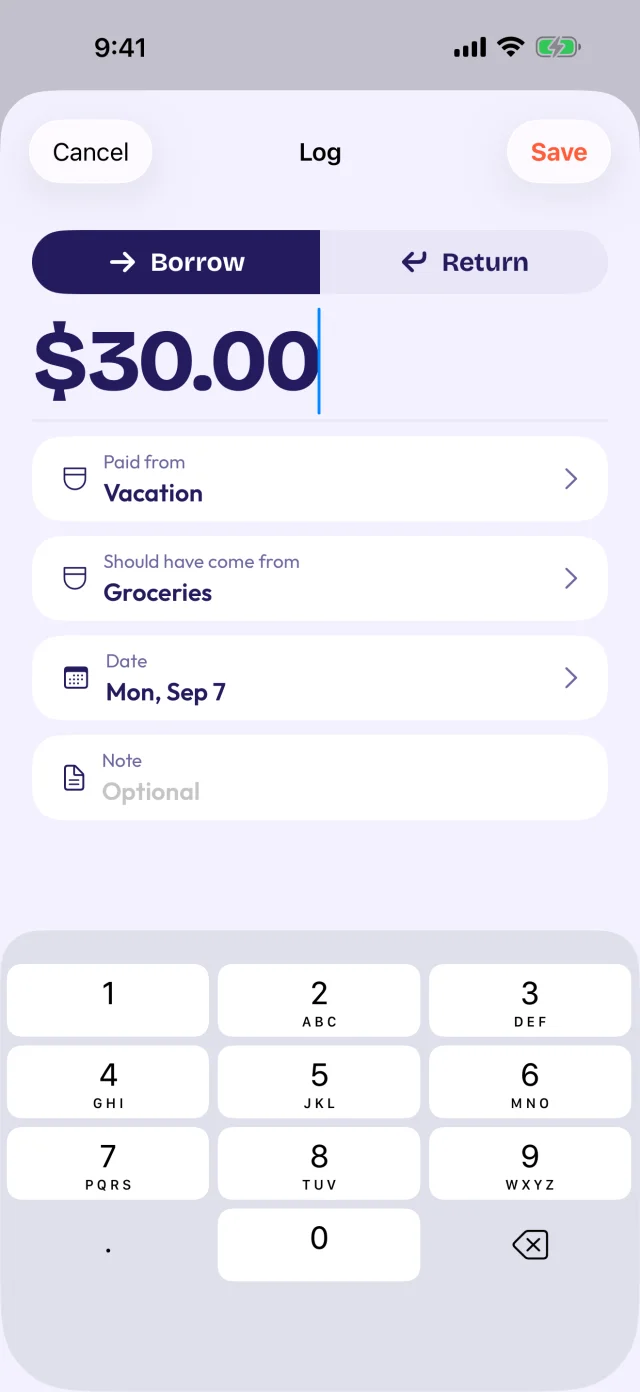
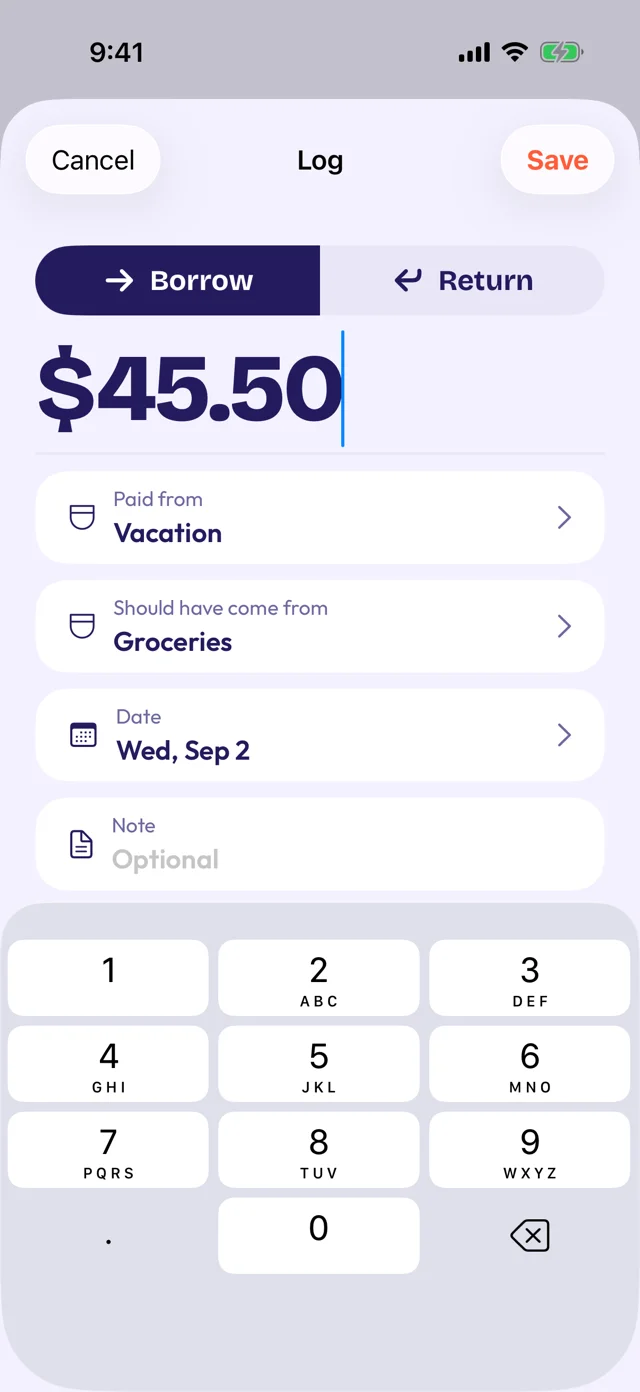
fix(landing): the en-US Log capture reads $45.50 on Wed, Sep 2 like beat 1, and link previews ask for the new image [repocket-site-t6j]
Beat 1 says "$45.50 at the till" under "Wednesday, 09:41", but the en-US Log screen showed $30.00 dated Mon, Sep 7. assets/screens/en-US/log.webp is retaken: the Log sheet in Borrow mode at $45.50, paid from Vacation, should have come from Groceries, dated Wed, Sep 2, number pad open. Its English alt text says so, keeping "covering for".

Capture method: app repo 2aa9557 in a throwaway worktree (nothing committed there), the testMarketingLogScreenshot flow from LocalizationScreenshotUITests under the RepocketLocalizationScreenshots scheme, with the frozen instant moved to 2026-09-02T09:41Z and the amount set to 4550, run with TEST_RUNNER_MARKETING_LOCALE=en_US. Simulator: the bead's own scripts/sim-for-session clone of iPhone 17 Pro on iOS 26.5 (no Pro Max exists on this Mac), en_US, light appearance, status bar overridden to 9:41. Exported at 1206x2622, resized to 640x1392, cwebp -q 85.

The Pro capture draws the app about 9 to 10 percent larger than the Pro Max captures once both fill the 640 px screen (cards 92 px tall against 85, the amount 87 px against 79, card margin 36 px against 32). The compare renders sit with the beat 1 renders.

Every page's og:image and twitter:image URL now ends in ?v=2, so X, Slack, LinkedIn and Facebook fetch the settle-tagline preview from repocket-site-1fe instead of their cached copy. The English Siri example reads $120.00, matching the alt texts and the $45.50 beside it.
[…]

diff --git a/index.html b/index.html
@@ -7,7 +7,7 @@
 <meta name="description" content="Spend from any pocket. Repocket keeps the tally and shows what to move back when it's time to settle. Free with 3 pockets, $4.99 once for the rest.">
 <meta property="og:title" content="Repocket · An app that helps you settle">
 <meta property="og:description" content="Spend from any pocket. Repocket keeps the tally and shows what to move back when it's time to settle. Free with 3 pockets, $4.99 once for the rest.">
-<meta property="og:image" content="https://getrepocket.com/assets/og.png">
+<meta property="og:image" content="https://getrepocket.com/assets/og.png?v=2">
 <meta property="og:image:width" content="1200">
 <meta property="og:image:height" content="630">
 <meta property="og:url" content="https://getrepocket.com/">
@@ -16,7 +16,7 @@
 <meta name="twitter:card" content="summary_large_image">
 <meta name="twitter:title" content="Repocket · An app that helps you settle">
 <meta name="twitter:description" content="Spend from any pocket. Repocket keeps the tally and shows what to move back when it's time to settle. Free with 3 pockets, $4.99 once for the rest.">
-<meta name="twitter:image" content="https://getrepocket.com/assets/og.png">
+<meta name="twitter:image" content="https://getrepocket.com/assets/og.png?v=2">
 <link rel="icon" href="assets/mark.svg">
 <style>
 @font-face{font-family:"Bricolage Grotesque";font-style:normal;font-weight:700;font-display:swap;src:url("assets/fonts/BricolageGrotesque-700.woff2") format("woff2")}
@@ -114,7 +114,7 @@ footer{padding:40px 0 60px;border-top:1px solid rgba(36,27,94,.1);font-size:14px
   </div>
   <div class="sticky"><div class="phone" id="story-phone" data-scr="log">
    <div class="sb" aria-hidden="true"><i></i></div>
-   <img class="scr s-log" data-l="en" src="assets/screens/en-US/log.webp" width="640" height="1392" decoding="async" loading="lazy" alt="Repocket's Log sheet in Borrow mode: $30.00 paid from Vacation, covering for Groceries, dated Mon, Sep 7, with the number pad open."><img class="scr s-log" data-l="de" src="assets/screens/en-GB/log.webp" width="640" height="1392" decoding="async" loading="lazy" alt="Das Eintragen-Blatt in Repocket im Modus Leihe: 45,50 €, bezahlt von Vacation, hätte kommen sollen von Groceries, am Mi. 2. Sep., mit offenem Ziffernblock.">
+   <img class="scr s-log" data-l="en" src="assets/screens/en-US/log.webp" width="640" height="1392" decoding="async" loading="lazy" alt="Repocket's Log sheet in Borrow mode: $45.50 paid from Vacation, covering for Groceries, dated Wed, Sep 2, with the number pad open."><img class="scr s-log" data-l="de" src="assets/screens/en-GB/log.webp" width="640" height="1392" decoding="async" loading="lazy" alt="Das Eintragen-Blatt in Repocket im Modus Leihe: 45,50 €, bezahlt von Vacation, hätte kommen sollen von Groceries, am Mi. 2. Sep., mit offenem Ziffernblock.">
    <img class="scr s-home" data-l="en" src="assets/screens/en-US/home.webp" width="640" height="1392" decoding="async" loading="lazy" alt="Repocket's Owed screen: $165.50 across 2 open debts. Groceries owes Vacation $45.50 since Wed 2 Sep, and Kids owes Home $120.00 since Fri 28 Aug."><img class="scr s-home" data-l="de" src="assets/screens/en-GB/home.webp" width="640" height="1392" decoding="async" loading="lazy" alt="Der Bildschirm Geschuldet in Repocket: 165,50 € in 2 offenen Schulden. Groceries schuldet Vacation 45,50 € seit Mi. 2. Sep., und Kids schuldet Home 120,00 € seit Fr. 28. Aug.">
    <div class="scr s-widget"><div class="wgt"><img data-l="en" src="assets/screens/en-US/widget-large.webp" width="560" height="587" decoding="async" loading="lazy" alt="Repocket's Owed widget: $165.50 to return, Kids to Home $120.00 for 10 days and Groceries to Vacation $45.50 for 5 days, each with a Settled checkmark button."><img data-l="de" src="assets/screens/en-GB/widget-large.webp" width="560" height="587" decoding="async" loading="lazy" alt="Das Repocket-Widget Geschuldet: 165,50 € zurückzulegen, Kids an Home 120,00 € seit 10 Tagen und Groceries an Vacation 45,50 € seit 5 Tagen, jeweils mit einem Häkchen zum Ausgleichen."></div></div>
    <img class="scr s-square" data-l="en" src="assets/screens/en-US/all-square.webp" width="640" height="1392" decoding="async" loading="lazy" alt="Repocket's Owed screen: Everything is square."><img class="scr s-square" data-l="de" src="assets/screens/en-GB/all-square.webp" width="640" height="1392" decoding="async" loading="lazy" alt="Der Bildschirm Geschuldet in Repocket: Alles ausgeglichen.">
@@ -131,7 +131,7 @@ footer{padding:40px 0 60px;border-top:1px solid rgba(36,27,94,.1);font-size:14px
  </div>
  <div class="os">
   <div class="reveal"><h3 style="font-size:clamp(28px,3vw,40px)"><span data-l="en">Lives on the home screen, not in a tab you forget.</span><span data-l="de">Lebt auf dem Home-Bildschirm, nicht in einem vergessenen Tab.</span></h3><p class="lead" style="margin-top:16px"><span data-l="en">Widgets in three sizes with a Settled button that works right on the Home Screen. Ask Siri and get an answer in one sentence.</span><span data-l="de">Widgets in drei Größen mit einem Erledigt-Knopf, der direkt auf dem Home-Bildschirm funktioniert. Frag Siri und bekomm die Antwort in einem Satz.</span></p></div>
-  <div class="siri reveal"><i></i><div><span data-l="en">“What do I owe in Repocket?”</span><span data-l="de">„Was schulde ich in Repocket?“</span><small><span data-l="en">“Groceries owes Vacation $45.50 and Kids owes Home $120. $165.50 to return.”</span><span data-l="de">„Lebensmittel schuldet Urlaub 45,50 € und Kinder schuldet Zuhause 120 €. 165,50 € zurückzulegen.“</span></small></div></div>
+  <div class="siri reveal"><i></i><div><span data-l="en">“What do I owe in Repocket?”</span><span data-l="de">„Was schulde ich in Repocket?“</span><small><span data-l="en">“Groceries owes Vacation $45.50 and Kids owes Home $120.00. $165.50 to return.”</span><span data-l="de">„Lebensmittel schuldet Urlaub 45,50 € und Kinder schuldet Zuhause 120 €. 165,50 € zurückzulegen.“</span></small></div></div>
  </div>
 </div></section>
 

diff --git a/press.html b/press.html
@@ -1,4 +1,4 @@
-<!doctype html><html lang="en"><head><meta charset="utf-8"><meta name="viewport" content="width=device-width,initial-scale=1"><title>Press kit · Repocket</title><meta name="description" content="An app that helps you settle. Spend from whichever pocket is handy. Repocket keeps the tally, and on payday it shows you exactly what to move back."><meta property="og:title" content="Press kit · Repocket"><meta property="og:description" content="An app that helps you settle. Spend from whichever pocket is handy. Repocket keeps the tally, and on payday it shows you exactly what to move back."><meta property="og:image" content="https://getrepocket.com/assets/og.png"><meta property="og:image:width" content="1200"><meta property="og:image:height" content="630"><meta property="og:url" content="https://getrepocket.com/press.html"><meta property="og:type" content="website"><meta property="og:site_name" content="Repocket"><meta name="twitter:card" content="summary_large_image"><meta name="twitter:title" content="Press kit · Repocket"><meta name="twitter:description" content="An app that helps you settle. Spend from whichever pocket is handy. Repocket keeps the tally, and on payday it shows you exactly what to move back."><meta name="twitter:image" content="https://getrepocket.com/assets/og.png"><link rel="icon" href="assets/mark.svg">
+<!doctype html><html lang="en"><head><meta charset="utf-8"><meta name="viewport" content="width=device-width,initial-scale=1"><title>Press kit · Repocket</title><meta name="description" content="An app that helps you settle. Spend from whichever pocket is handy. Repocket keeps the tally, and on payday it shows you exactly what to move back."><meta property="og:title" content="Press kit · Repocket"><meta property="og:description" content="An app that helps you settle. Spend from whichever pocket is handy. Repocket keeps the tally, and on payday it shows you exactly what to move back."><meta property="og:image" content="https://getrepocket.com/assets/og.png?v=2"><meta property="og:image:width" content="1200"><meta property="og:image:height" content="630"><meta property="og:url" content="https://getrepocket.com/press.html"><meta property="og:type" content="website"><meta property="og:site_name" content="Repocket"><meta name="twitter:card" content="summary_large_image"><meta name="twitter:title" content="Press kit · Repocket"><meta name="twitter:description" content="An app that helps you settle. Spend from whichever pocket is handy. Repocket keeps the tally, and on payday it shows you exactly what to move back."><meta name="twitter:image" content="https://getrepocket.com/assets/og.png?v=2"><link rel="icon" href="assets/mark.svg">
 <style>@font-face{font-family:"Bricolage Grotesque";font-style:normal;font-weight:700;font-display:swap;src:url("assets/fonts/BricolageGrotesque-700.woff2") format("woff2")}
 @font-face{font-family:"Bricolage Grotesque";font-style:normal;font-weight:800;font-display:swap;src:url("assets/fonts/BricolageGrotesque-800.woff2") format("woff2")}
 @font-face{font-family:"Outfit";font-style:normal;font-weight:400;font-display:swap;src:url("assets/fonts/Outfit-400.woff2") format("woff2")}

diff --git a/privacy.html b/privacy.html
@@ -1,4 +1,4 @@
-<!doctype html><html lang="en" data-lang="en"><head><meta charset="utf-8"><meta name="viewport" content="width=device-width,initial-scale=1"><title>Privacy policy · Repocket</title><meta property="og:title" content="Privacy · Repocket"><meta property="og:description" content="How Repocket handles your data: entries stay on your iPhone and in your private iCloud. Anonymous usage analytics and crash reports are the only data sent to us."><meta property="og:image" content="https://getrepocket.com/assets/og.png"><meta property="og:image:width" content="1200"><meta property="og:image:height" content="630"><meta property="og:url" content="https://getrepocket.com/privacy.html"><meta property="og:type" content="website"><meta property="og:site_name" content="Repocket"><meta name="twitter:card" content="summary_large_image"><meta name="twitter:title" content="Privacy · Repocket"><meta name="twitter:description" content="How Repocket handles your data: entries stay on your iPhone and in your private iCloud. Anonymous usage analytics and crash reports are the only data sent to us."><meta name="twitter:image" content="https://getrepocket.com/assets/og.png"><link rel="icon" href="assets/mark.svg">
+<!doctype html><html lang="en" data-lang="en"><head><meta charset="utf-8"><meta name="viewport" content="width=device-width,initial-scale=1"><title>Privacy policy · Repocket</title><meta property="og:title" content="Privacy · Repocket"><meta property="og:description" content="How Repocket handles your data: entries stay on your iPhone and in your private iCloud. Anonymous usage analytics and crash reports are the only data sent to us."><meta property="og:image" content="https://getrepocket.com/assets/og.png?v=2"><meta property="og:image:width" content="1200"><meta property="og:image:height" content="630"><meta property="og:url" content="https://getrepocket.com/privacy.html"><meta property="og:type" content="website"><meta property="og:site_name" content="Repocket"><meta name="twitter:card" content="summary_large_image"><meta name="twitter:title" content="Privacy · Repocket"><meta name="twitter:description" content="How Repocket handles your data: entries stay on your iPhone and in your private iCloud. Anonymous usage analytics and crash reports are the only data sent to us."><meta name="twitter:image" content="https://getrepocket.com/assets/og.png?v=2"><link rel="icon" href="assets/mark.svg">
 <style>@font-face{font-family:"Bricolage Grotesque";font-style:normal;font-weight:700;font-display:swap;src:url("assets/fonts/BricolageGrotesque-700.woff2") format("woff2")}
 @font-face{font-family:"Bricolage Grotesque";font-style:normal;font-weight:800;font-display:swap;src:url("assets/fonts/BricolageGrotesque-800.woff2") format("woff2")}
 @font-face{font-family:"Outfit";font-style:normal;font-weight:400;font-display:swap;src:url("assets/fonts/Outfit-400.woff2") format("woff2")}

diff --git a/impressum.html b/impressum.html
@@ -1,4 +1,4 @@
-<!doctype html><html lang="en" data-lang="en"><head><meta charset="utf-8"><meta name="viewport" content="width=device-width,initial-scale=1"><title>Impressum · Repocket</title><meta property="og:title" content="Impressum · Repocket"><meta property="og:description" content="Legal notice for Repocket: who is responsible for this app and site, and how to reach them."><meta property="og:image" content="https://getrepocket.com/assets/og.png"><meta property="og:image:width" content="1200"><meta property="og:image:height" content="630"><meta property="og:url" content="https://getrepocket.com/impressum.html"><meta property="og:type" content="website"><meta property="og:site_name" content="Repocket"><meta name="twitter:card" content="summary_large_image"><meta name="twitter:title" content="Impressum · Repocket"><meta name="twitter:description" content="Legal notice for Repocket: who is responsible for this app and site, and how to reach them."><meta name="twitter:image" content="https://getrepocket.com/assets/og.png"><link rel="icon" href="assets/mark.svg">
+<!doctype html><html lang="en" data-lang="en"><head><meta charset="utf-8"><meta name="viewport" content="width=device-width,initial-scale=1"><title>Impressum · Repocket</title><meta property="og:title" content="Impressum · Repocket"><meta property="og:description" content="Legal notice for Repocket: who is responsible for this app and site, and how to reach them."><meta property="og:image" content="https://getrepocket.com/assets/og.png?v=2"><meta property="og:image:width" content="1200"><meta property="og:image:height" content="630"><meta property="og:url" content="https://getrepocket.com/impressum.html"><meta property="og:type" content="website"><meta property="og:site_name" content="Repocket"><meta name="twitter:card" content="summary_large_image"><meta name="twitter:title" content="Impressum · Repocket"><meta name="twitter:description" content="Legal notice for Repocket: who is responsible for this app and site, and how to reach them."><meta name="twitter:image" content="https://getrepocket.com/assets/og.png?v=2"><link rel="icon" href="assets/mark.svg">
 <style>@font-face{font-family:"Bricolage Grotesque";font-style:normal;font-weight:700;font-display:swap;src:url("assets/fonts/BricolageGrotesque-700.woff2") format("woff2")}
 @font-face{font-family:"Bricolage Grotesque";font-style:normal;font-weight:800;font-display:swap;src:url("assets/fonts/BricolageGrotesque-800.woff2") format("woff2")}
 @font-face{font-family:"Outfit";font-style:normal;font-weight:400;font-display:swap;src:url("assets/fonts/Outfit-400.woff2") format("woff2")}

diff --git a/support.html b/support.html
@@ -1,4 +1,4 @@
-<!doctype html><html lang="en" data-lang="en"><head><meta charset="utf-8"><meta name="viewport" content="width=device-width,initial-scale=1"><title>Support · Repocket</title><meta property="og:title" content="Support · Repocket"><meta property="og:description" content="Get help with Repocket: common questions, bug reports, and how to reach the maker."><meta property="og:image" content="https://getrepocket.com/assets/og.png"><meta property="og:image:width" content="1200"><meta property="og:image:height" content="630"><meta property="og:url" content="https://getrepocket.com/support.html"><meta property="og:type" content="website"><meta property="og:site_name" content="Repocket"><meta name="twitter:card" content="summary_large_image"><meta name="twitter:title" content="Support · Repocket"><meta name="twitter:description" content="Get help with Repocket: common questions, bug reports, and how to reach the maker."><meta name="twitter:image" content="https://getrepocket.com/assets/og.png"><link rel="icon" href="assets/mark.svg">
+<!doctype html><html lang="en" data-lang="en"><head><meta charset="utf-8"><meta name="viewport" content="width=device-width,initial-scale=1"><title>Support · Repocket</title><meta property="og:title" content="Support · Repocket"><meta property="og:description" content="Get help with Repocket: common questions, bug reports, and how to reach the maker."><meta property="og:image" content="https://getrepocket.com/assets/og.png?v=2"><meta property="og:image:width" content="1200"><meta property="og:image:height" content="630"><meta property="og:url" content="https://getrepocket.com/support.html"><meta property="og:type" content="website"><meta property="og:site_name" content="Repocket"><meta name="twitter:card" content="summary_large_image"><meta name="twitter:title" content="Support · Repocket"><meta name="twitter:description" content="Get help with Repocket: common questions, bug reports, and how to reach the maker."><meta name="twitter:image" content="https://getrepocket.com/assets/og.png?v=2"><link rel="icon" href="assets/mark.svg">
 <style>@font-face{font-family:"Bricolage Grotesque";font-style:normal;font-weight:700;font-display:swap;src:url("assets/fonts/BricolageGrotesque-700.woff2") format("woff2")}
 @font-face{font-family:"Bricolage Grotesque";font-style:normal;font-weight:800;font-display:swap;src:url("assets/fonts/BricolageGrotesque-800.woff2") format("woff2")}
 @font-face{font-family:"Outfit";font-style:normal;font-weight:400;font-display:swap;src:url("assets/fonts/Outfit-400.woff2") format("woff2")}
